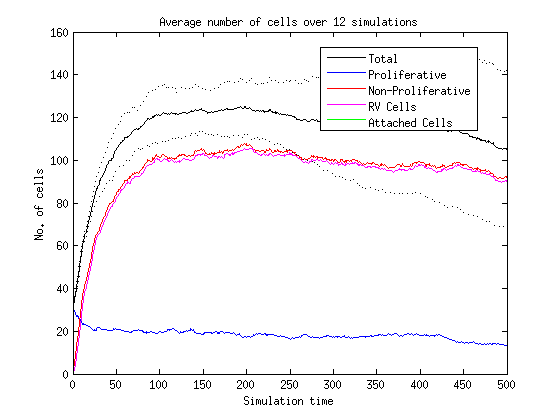
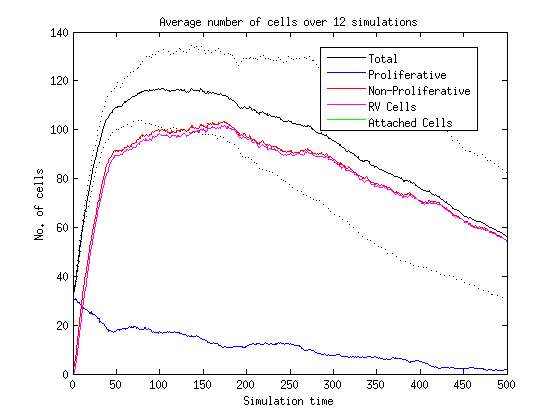
forgot to sync the matlab results

diff --git a/MATLAB/ViewUtBudData.m b/MATLAB/ViewUtBudData.m
@@ -1,4 +1,4 @@
-function ViewUtBudData(TotalJobs, BinSize_ux, BinSize_vx, BinSize_agex, BinSize_agey)
+function outvect = ViewUtBudData(TotalJobs, BinSize_ux, BinSize_vx, BinSize_agex, BinSize_agey)
 % ViewUtBudData: Produces data plots for batch data from UtericBudSimulation
 %
 %   Inputs:
@@ -26,6 +26,8 @@ function ViewUtBudData(TotalJobs, BinSize_ux, BinSize_vx, BinSize_agex, BinSize_
 
 close all;
 fontopt = {'FontSize',50,'FontWeight','bold'};
+outvect = zeros(1,6); % SimTime(end), p, mean total(end), std total(end), mean prolif(end), mean level(end), std level (end),
+outvect(1,2) = 0.65;
 
 max_x = 20;
 max_y = 5;
@@ -97,6 +99,10 @@ title(['Average number of cells over ', num2str(TotalJobs), ' simulations'], fon
 xlabel('Simulation time'); ylabel('No. of cells');
 set(gcf,'PaperPositionMode','auto'); print('Fig01', '-dpng', '-r0');
 
+outvect(1,1) = SimTime(end);
+outvect(1,3) = TotalCells(end);
+outvect(1,4) = TotalCellsStd(end);
+outvect(1,5) = TransitCells(end);
 
 
 %% Mean cap height vs t
@@ -203,6 +209,9 @@ title(['Average cap height over ', num2str(TotalJobs), ' simulations'], fontopt{
 xlabel('t'); ylabel('y');
 
 set(gcf,'PaperPositionMode','auto'); print('Fig02', '-dpng', '-r0');
+
+outvect(1,6) = av_cap_height(end);
+outvect(1,7) = cap_height_Std(end);
 
 
 

diff --git a/src/cell/cycle/CMCellCycleModel.cpp b/src/cell/cycle/CMCellCycleModel.cpp
@@ -101,7 +101,7 @@ bool CMCellCycleModel::ReadyToDivide()
         
         /* Apply the RV mutation state with random chance to 
          * differntiated cells. */
-        double RVProbability = 1 - conc_b;
+        double RVProbability = 1-conc_b;
         
         if (  (mpCell->GetCellProliferativeType()->IsType<DifferentiatedCellProliferativeType>()) && (p_gen->ranf() < RVProbability * dt)  )
         {
@@ -143,10 +143,11 @@ bool CMCellCycleModel::ReadyToDivide()
              * If it doesnt differentiate and divide, then remain as transit and divide.
              * Draw a new division age as well (Daughter will get new div age in
              * InitialiseDaughterCell(). */
-            double DiffProbability = 1 - conc_b;
+            double DiffProbability = 1-conc_b;
             double DiffYThreshold = mTDYThreshold;
             
-            if ( (p_gen->ranf() < DiffProbability) && (conc_a < DiffYThreshold) ) // conc_a < or >?
+            //if ( (p_gen->ranf() < DiffProbability) && (conc_a < DiffYThreshold) ) // conc_a < or >?
+            if (p_gen->ranf() < DiffProbability)
             {
                 mpCell->SetCellProliferativeType(p_diff_type);
             }

diff --git a/src/simulation/modifiers/ChemTrackingModifier.cpp b/src/simulation/modifiers/ChemTrackingModifier.cpp
@@ -71,17 +71,30 @@ void ChemTrackingModifier<DIM>::UpdateCellData(AbstractCellPopulation<DIM,DIM>& 
         double cell_x = rCellPopulation.GetLocationOfCellCentre(*cell_iter)[0];
         double cell_y = rCellPopulation.GetLocationOfCellCentre(*cell_iter)[1];
         
+        double conc_a = 1.0;
+        if (cell_y < 10.0)
+        {
+            conc_a = cell_y/10.0;
+        }
+        /*
+        double conc_b = 1.0;
+        if (cell_x < 10.0)
+        {
+            conc_b = cell_x/10.0;
+        }
+        */
+        double conc_b = 0.65 * (1 - cell_x/20);
+        //double conc_b = exp(-pow(cell_x,2)/(2*pow(5.5,2)));
+        
+        /*
         double conc_a = 0.0;
         if (cell_y < 10.0)
         {
-            conc_a = 1 - cell_y/10.0;
+            conc_a = 1.0 - cell_y/10.0;
         }
         
-        double conc_b = 0.0;
-        if (cell_x < 10.0)
-        {
-            conc_b = 1 - cell_x/10.0;
-        }
+        double conc_b = cell_x/20.0;
+        */
         
         cell_iter->GetCellData()->SetItem("concentrationA", conc_a);
         cell_iter->GetCellData()->SetItem("concentrationB", conc_b);

diff --git a/MATLAB/testfun.m b/MATLAB/testfun.m
@@ -1,0 +1,10 @@
+function testfun( input_args )
+%TESTFUN Summary of this function goes here
+%   Detailed explanation goes here
+
+A = rand(3,3);
+disp('smoof')
+A = A + 3;
+disp(A)
+end
+
